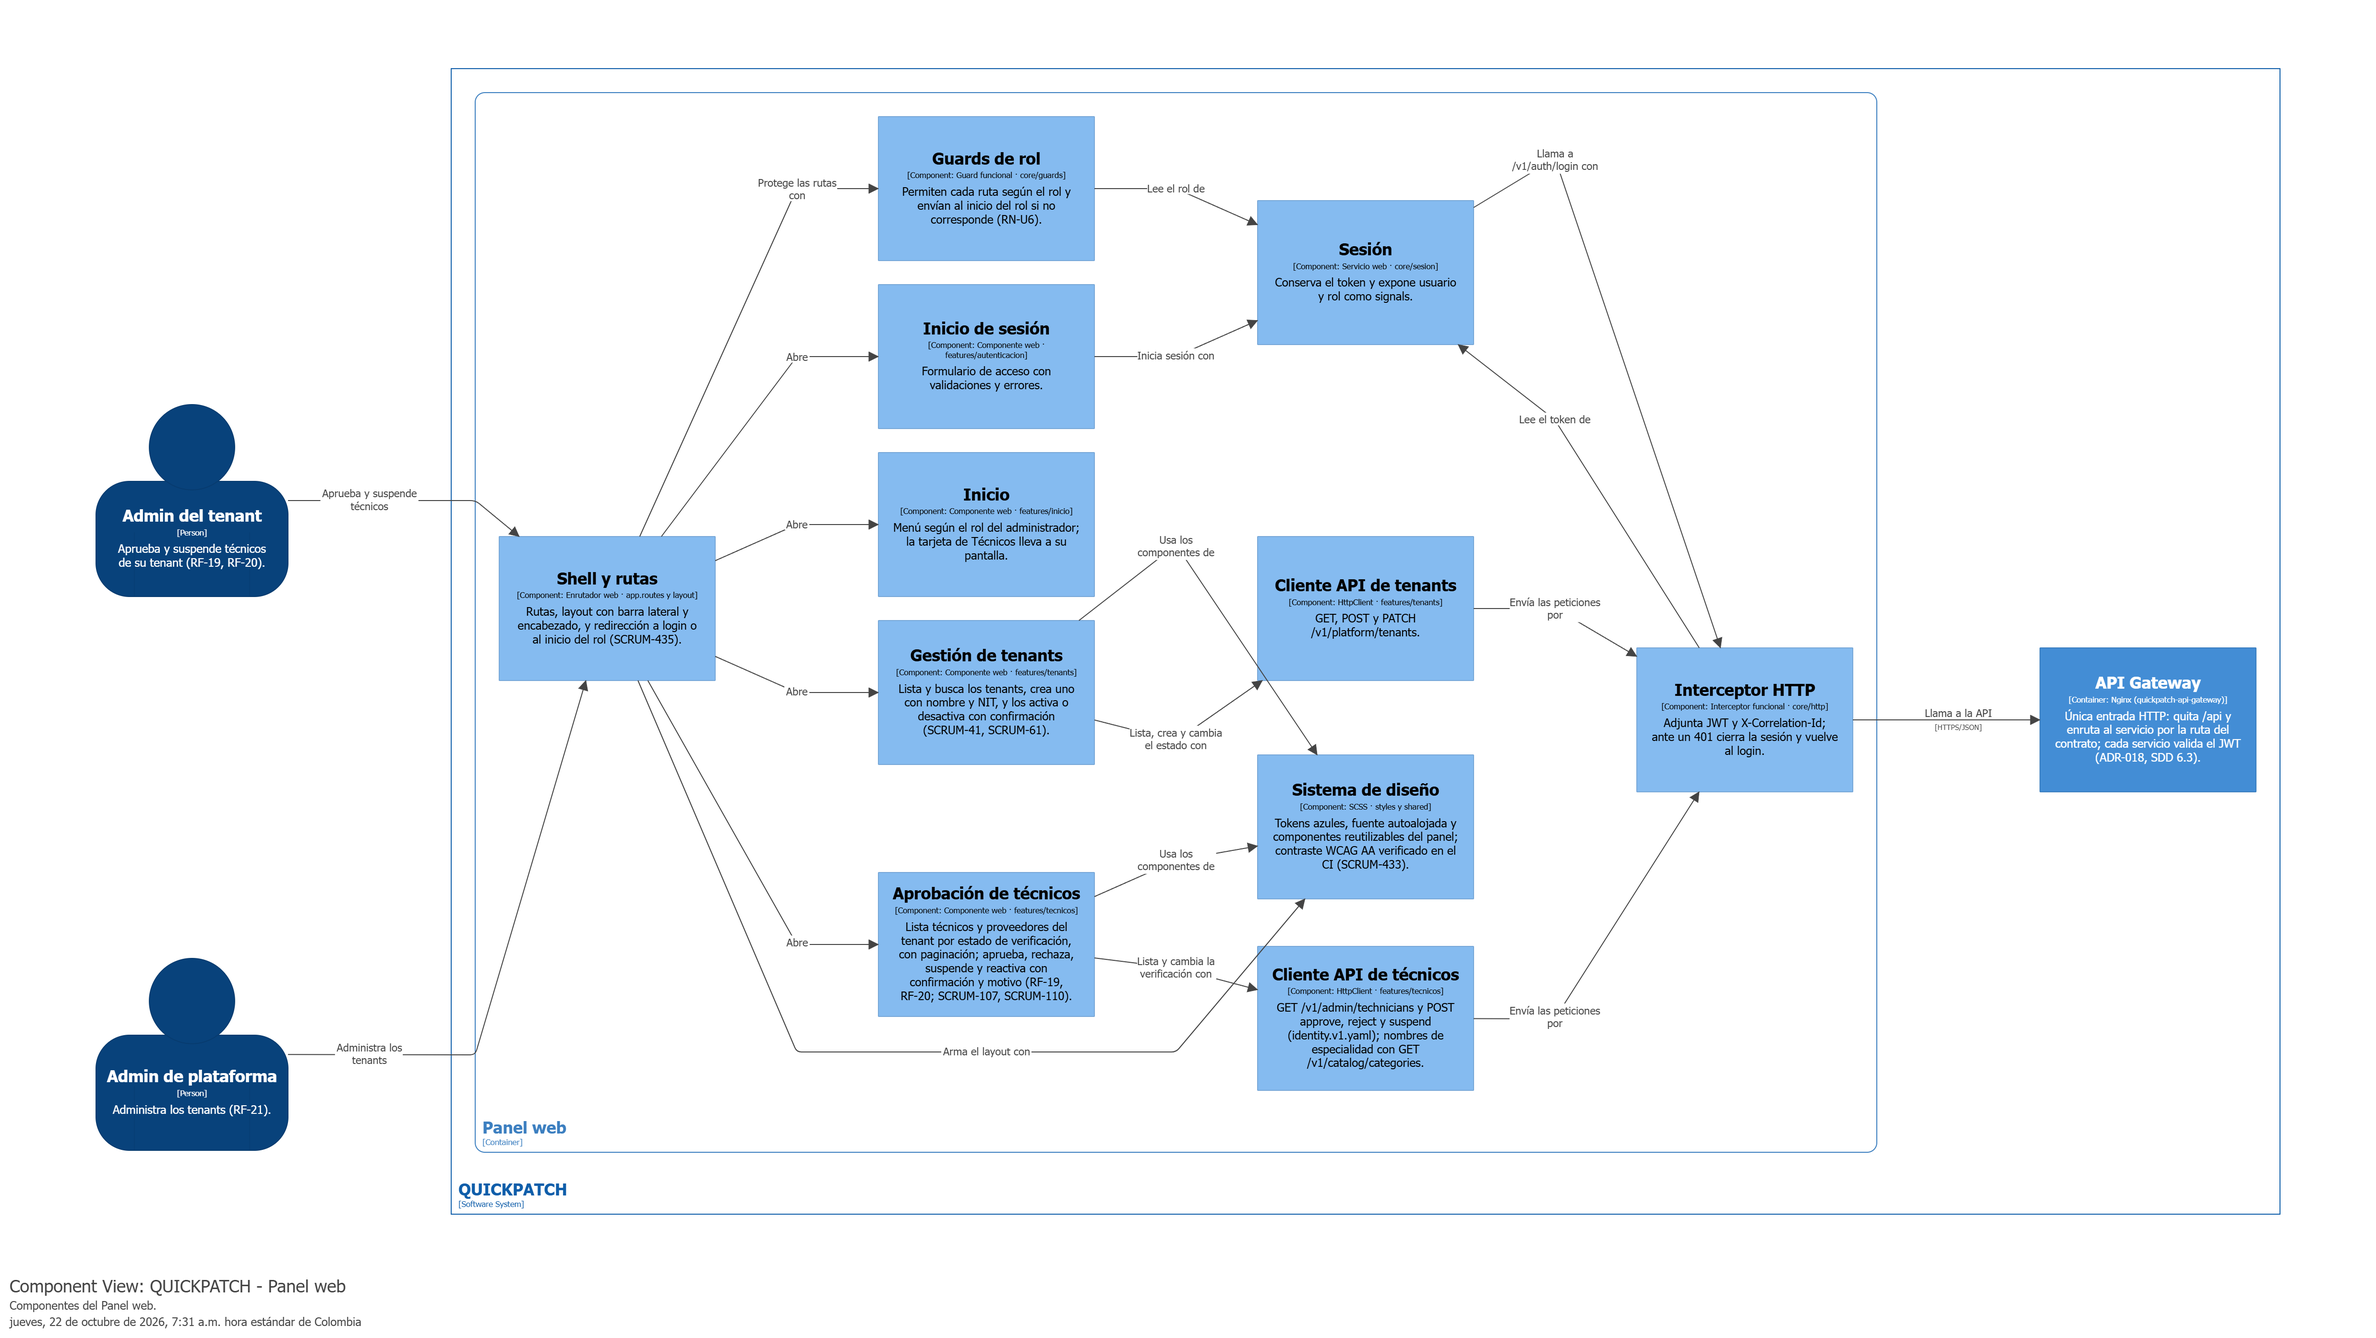
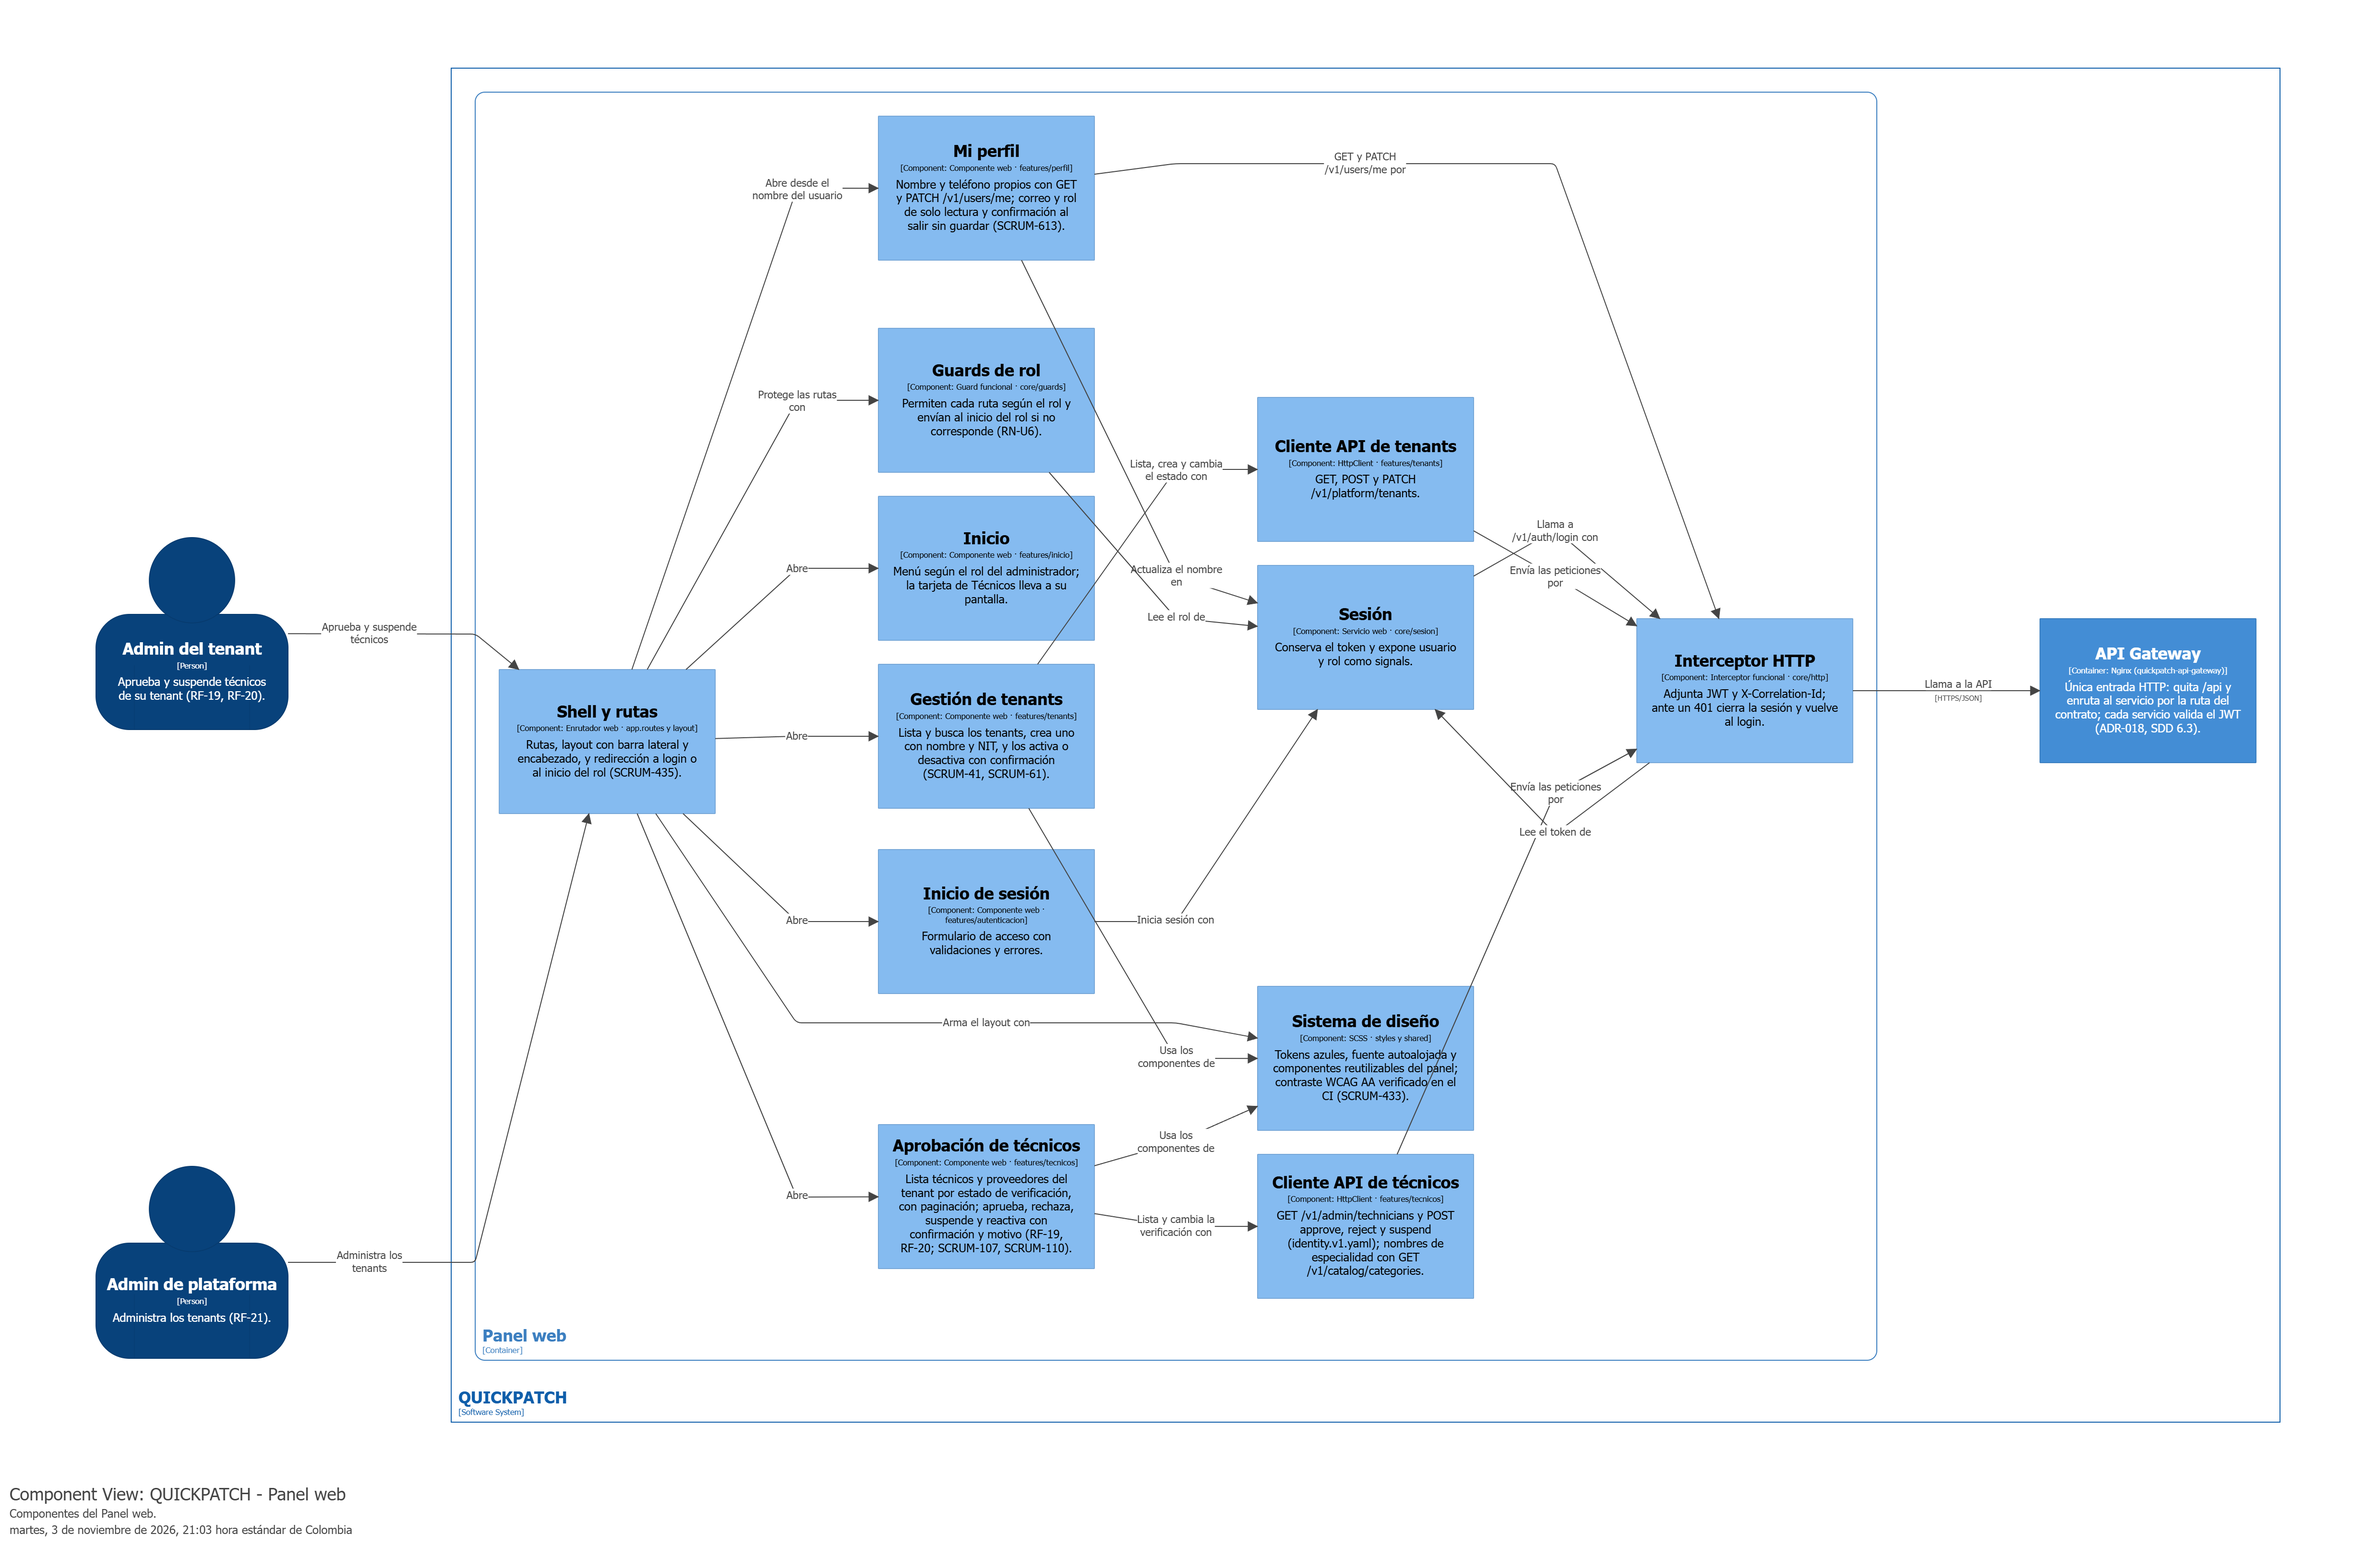
docs(sdd): Mis pagos de la app y Mi perfil del panel en el diseno (SCRUM-548)
Agrega Mis pagos (SCRUM-502) al componente de pagos de la app y Mi perfil
(SCRUM-613) al panel web en quickpatch.dsl y en las tablas de la seccion 6.2,
y regenera las figuras 8 y 9.

diff --git a/docs/architecture/SDD.md b/docs/architecture/SDD.md
@@ -340,6 +340,7 @@ Estos diagramas abren los dos contenedores cliente de la Figura 3. Cada componen
 | Aprobación de técnicos | `features/tecnicos/tecnicos.ts` | Lista técnicos y proveedores del tenant por estado de verificación, con paginación. Aprueba y rechaza (RF-19), suspende y reactiva (RF-20) según las transiciones de DD 8.3.13, con confirmación y un motivo de 5 a 500 caracteres para rechazar y suspender; un 409 `transicion-invalida` recarga la lista. | SCRUM-39 / SCRUM-107; SCRUM-40 / SCRUM-110 |
 | Cliente API de técnicos | `features/tecnicos/tecnicos-api.ts` | `GET /v1/admin/technicians` y `POST .../{userId}/approve`, `/reject` y `/suspend`; los nombres de especialidad salen de `GET /v1/catalog/categories`. | SCRUM-39 / SCRUM-107; SCRUM-40 / SCRUM-110 |
 | Activación de cuenta | `features/activacion` | Página pública `/activar` donde el técnico del equipo de un proveedor define su contraseña con el enlace de invitación (`POST /v1/auth/password/setup`). El token viaja en el fragmento del enlace, que el navegador no envía al servidor, y solo sale en el cuerpo del `POST`. | SCRUM-36 / SCRUM-463 |
+| Mi perfil | `features/perfil` | Nombre y teléfono propios con `GET` y `PATCH /v1/users/me` (identity 1.9.0), desde el nombre del usuario en el encabezado; el correo y el rol son de solo lectura y salir con cambios sin guardar pide confirmación. | SCRUM-613 |
 
 ![Componentes de la App móvil](diagrams/c4/C4-04-Componentes-Mobile.png)
 
@@ -368,6 +369,7 @@ Estos diagramas abren los dos contenedores cliente de la Figura 3. Cada componen
 | Cuenta corporativa | `features/autenticacion`, `features/empresa` | Registro de la empresa cliente con su primer usuario y alta de otros usuarios con invitación (RF-06, identity 1.8.0). | SCRUM-67 |
 | Solicitudes del cliente y de la empresa | `features/solicitudes` | Lista de las propias o de la empresa con filtro y paginación, sede en la solicitud de empresa y solo lectura para la de otro usuario de la empresa (RF-08, RF-11, RN-SR14). | SCRUM-74 |
 | Pago y comprobante | `features/pagos` | Pago con la pasarela simulada (la tarjeta se tokeniza en el teléfono) y comprobante en PDF para compartir (RF-22 a RF-24). | SCRUM-116 / SCRUM-494 |
+| Mis pagos | `features/pagos` | Pagos recibidos desde Cuenta: el técnico ve los suyos y el proveedor los de su equipo, con el nombre de cada técnico y filtro por técnico; filtros por estado, sin datos de tarjeta (RF-25, `GET /v1/payments/received`, payments 1.2.0). | SCRUM-502 |
 | Calificación | `features/calificacion` | Estrellas y comentario en el detalle de una solicitud `pagado`, solo para quien la creó; reconoce `ya-calificada` y `transicion-invalida` (RF-12, service-request 1.10.0). | SCRUM-86 |
 | Historial del técnico | `features/solicitudes` | Servicios atendidos desde Cuenta, con filtros Completados, Pagados y Cancelados y la calificación recibida (RF-17, `GET /v1/technicians/me/service-requests`). | SCRUM-101 |
 
@@ -1407,7 +1409,7 @@ Como parte de la validación de completitud se revisa qué RF y RNF del SRS no q
 - **RF-17** (servicios del técnico): sección 6.2 y lista de la sección 6.7 (SCRUM-464, SCRUM-467). Desde el Sprint 5, el historial del técnico muestra la calificación de cada servicio (SCRUM-100, SCRUM-499 y SCRUM-101).
 - **RF-19 y RF-20** (aprobación, rechazo y suspensión de técnicos): Figura 8, sección 6.4 y BPMN de la Figura 40 (SCRUM-106, SCRUM-107, SCRUM-110).
 - **RF-21** (gestión de tenants): Figura 28 y BPMN de la Figura 42 (SCRUM-112, SCRUM-462).
-- **RF-25** (pagos recibidos del técnico y del proveedor): sección 6.10 y `GET /v1/payments/received` de payments 1.2.0 (SCRUM-500, SCRUM-501). El equipo del proveedor se toma de `technician.registered`.
+- **RF-25** (pagos recibidos del técnico y del proveedor): sección 6.10 y `GET /v1/payments/received` de payments 1.2.0 (SCRUM-500, SCRUM-501). En la app, Mis pagos (sección 6.2, SCRUM-502). El equipo del proveedor se toma de `technician.registered`.
 - **Notificaciones en la app** (RIE-03, ADR-024): buzón en `db_communication` (sección 6.11, SCRUM-456, SCRUM-459), con el aviso por el canal en tiempo real de los escenarios 2 y 4.
 
 Siguen sin escenario propio:
@@ -2236,6 +2238,7 @@ La V4 lleva el documento al Sprint 5 y responde a las observaciones del profesor
 | Revisión integral del Sprint 5: sistemas externos según ADR-024 (sección 4), Ranking en QA, matriz 8.6 y grupos 8.7 con los eventos y consumidores reales, perfil, `tenant.status-changed` y su réplica en Identity y ServiceRequest, y calificación e historial en la app | 4, 5, 6.2, 6.4, 6.7, 6.9, 8.6, 8.7, 9 y 12 (figuras 3, 9, 10, 13, 16, 27 y 31) | SCRUM-548 |
 | Componentes reales de la calificación: ServiceRequest, Ranking e Identity | 6.4, 6.7 y 6.9 (figuras 10, 13 y 16) | SCRUM-584 |
 | Pagos recibidos de Payments con sus clases reales (`ReceivedPaymentEndpoints`, `ReceivedPaymentsHandler`, `TechnicianRegisteredConsumer` y `TechnicianRegisteredHandler`) y los consumidores reales de Communication, sin `payment.*` | 6.10 (figura 17), figura 18 y figura 3 | SCRUM-584 |
+| Mis pagos de la app (SCRUM-502) y Mi perfil del panel (SCRUM-613) en las tablas y en las vistas, regeneradas | 6.2 (figuras 8 y 9) y 8.13.5 (RF-25) | SCRUM-548 |
 | Observaciones 1 a 3 de la revisión funcional del PO: sección 12 con la revisión de la V4, contratos de `v0.21.0`, los 20 eventos de `quickpatch-kafka` `v0.10.0` y RF-17, RF-25 y el buzón en la sección 8.13.5 | 5.6.1, 5.6.2, 8.13.5, 12 y 13.5 | SCRUM-548 |
 | Auditoría previa a la revisión del PO: estado del documento, calificación implementada en la matriz de escenarios, secuencia de extremo a extremo con el técnico y la calificación por Kafka (ADR-027), cuenta corporativa implementada, Ranking en la convención de paquetes y referencias corregidas | 1, 6.2, 6.7, 8.13.3, 8.13.4, 10.2, 11.4 y 13 | SCRUM-548 |
 
